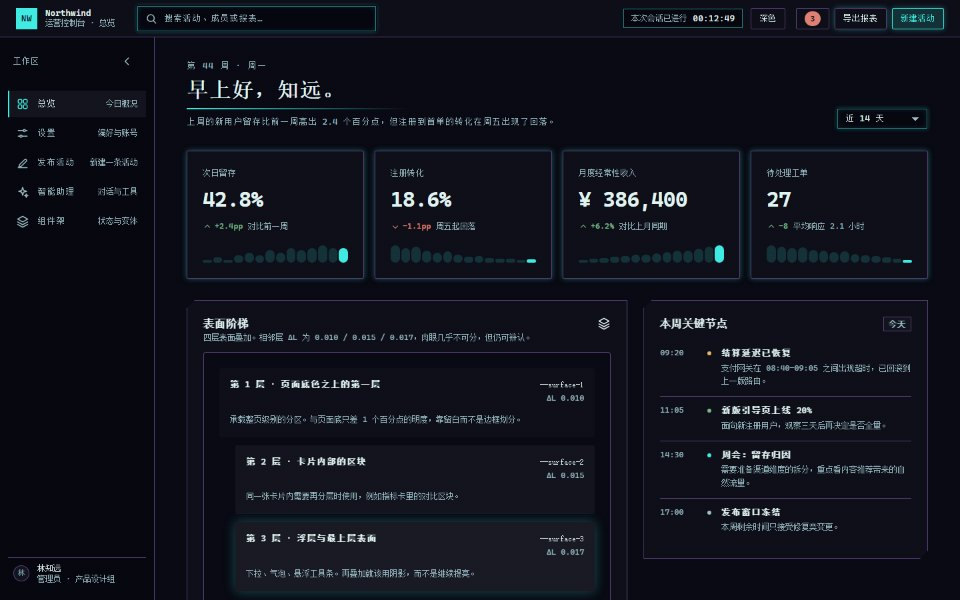
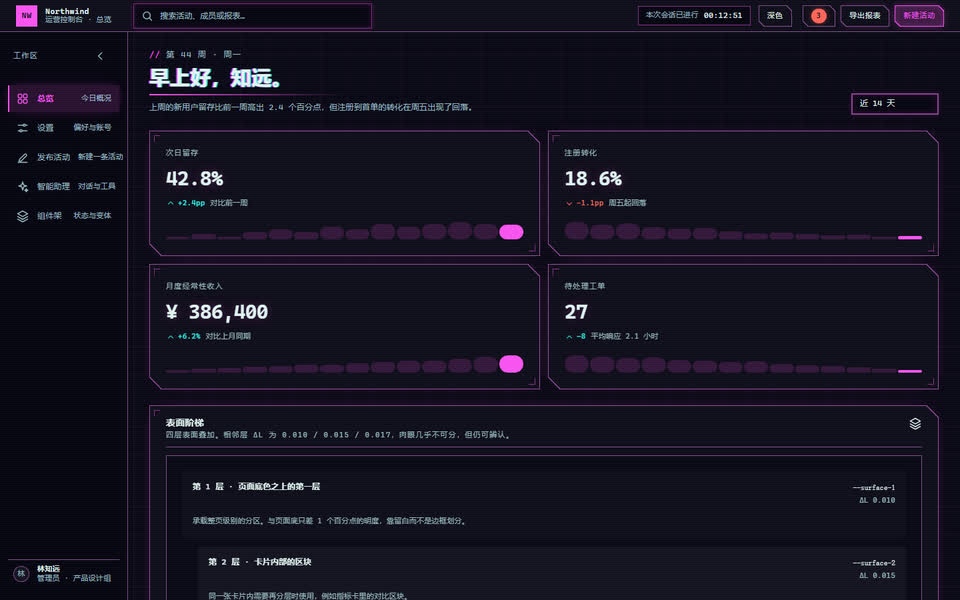
fix(cyberpunk): 主色换成霓虹品红，底子提浓度
预览图里的赛博朋克读起来像普通暗色主题，问题出在配色而不是纹理：
主荧光是青（H 190），品红只有 C 0.18、被降级成通道分离的配角，
所以整页没有霓虹。霓虹的视觉主体是品红，青色是陪衬。

- 暗色主荧光改品红 oklch(0.720 0.260 330)：L 0.72 的色域上限是
  C 0.286，压到 0.18 会在暗底上读成"紫灰"；青退到副光只做通道分离
- 底色浓度 0.020 → 0.028、色相 280 → 290：底色不带紫，品红就像贴在
  纯黑上的贴纸，而不是照着这个房间的光
- 描边跟着主色走（H 300→320、L 0.43→0.52）：暗紫线在品红旁边像没上色
- danger 从品红改为朱红 H 27：主色已是品红，状态色继续同色就分不出
  "主按钮"和"出错了"；success 浅色同步换青绿 H 155 避开同区
- 浅色态 accent 同步提到 C 0.23（5.6:1），accent-2 换成青墨
- 调色方案换成"荧光品红 / 显像管青 / 霓虹紫"，各带自己的中性色调
- 风格卡与 README 说明同步；预览图重拍

实测：暗色 fg 17.3:1 / muted 10.1:1 / accent 7.0:1；浅色 accent 5.6:1。
三套测试全绿（56 / 19 / 0 错误）。

diff --git a/assets/studio/styles/cyberpunk.css b/assets/studio/styles/cyberpunk.css
@@ -2,8 +2,9 @@
    cyberpunk.css —— 赛博朋克 · 变体 04/12
    --------------------------------------------------------------------------
    签名：同一个视觉语言的两种载体。
-     暗色 = 荧光显像管：蓝紫黑底 + 40px 青网格 + 3px 扫描线 + 下移扫描带，
-            切角、终端角标、标题/数值的 RGB 通道分离、只在活跃元素上发光。
+     暗色 = 荧光显像管：蓝紫黑底 + 40px 荧光网格 + 3px 扫描线 + 下移扫描带，
+            品红主荧光 + 青副荧光、切角、终端角标、标题/数值的 RGB 通道分离、
+            只在活跃元素上发光。
      浅色 = 印刷的终端：米青纸底 + 半调网点、深紫墨字、实心墨块按钮、
             套准角标、硬边套印偏移——纸不会发光，所以这里没有辉光。
 
@@ -30,18 +31,19 @@
   --surface-sunken: oklch(0.938 0.010 200);
   --fg: oklch(0.220 0.030 280);              /* #181928  15.5:1 */
   --fg-muted: oklch(0.435 0.050 280);        /* #4B4E6D  7.2:1 */
-  --accent: oklch(0.520 0.190 330);          /* #A1319B  品红墨，5.5:1 */
-  --accent-hover: oklch(0.470 0.195 330);
-  --accent-2: oklch(0.560 0.090 200);        /* #188489  青墨，只做装饰 */
+  --accent: oklch(0.520 0.230 330);          /* #AB0FA5  荧光品红墨，5.6:1 */
+  --accent-hover: oklch(0.470 0.210 330);    /* #950891 */
+  --accent-2: oklch(0.500 0.085 195);        /* #017272  青墨，只做套印副版 */
   --accent-soft: color-mix(in oklab, var(--accent) 12%, transparent);
   /* 实心墨块上的字用纸色；纸与墨是一对，白与墨不是 */
   --on-accent: oklch(0.960 0.010 200);
-  /* 状态色：danger 用品红墨，success 用主青墨，warning 用荧光黄墨 */
-  --danger: oklch(0.520 0.190 330);          /* #A1319B  5.5:1 vs bg */
-  --danger-hover: oklch(0.475 0.195 330);
+  /* 状态色：danger 换朱红，避免与品红主色混为一谈；
+     success 用青墨（副光），warning 用荧光黄墨 */
+  --danger: oklch(0.500 0.180 27);           /* #B32322  5.9:1 vs bg */
+  --danger-hover: oklch(0.450 0.180 27);     /* #A20711 */
   --danger-soft: color-mix(in oklab, var(--danger) 14%, transparent);
   --on-danger: oklch(0.960 0.010 200);       /* 5.9:1 vs danger */
-  --success: oklch(0.480 0.083 190);         /* #006C68  5.6:1 vs bg */
+  --success: oklch(0.480 0.090 155);         /* #2C6C47  5.6:1 vs bg */
   --warning: oklch(0.494 0.102 80);          /* #805A01  5.6:1 vs bg */
   --line-1: oklch(0.700 0.080 200);          /* #5CAEB2 */
   --line-2: oklch(0.560 0.060 280);
@@ -99,28 +101,36 @@
 :root[data-style="cyberpunk"][data-theme="dark"] {
   color-scheme: dark;
 
-  /* 屏幕态：H 280 / C 0.020 蓝紫黑；L 0.145，低于卡片声明的 0.18 上限 */
-  --bg: oklch(0.145 0.020 280);              /* #080912 */
-  --surface-1: oklch(0.168 0.020 280);       /* #0D0E18  ΔL 0.023 */
-  --surface-2: oklch(0.192 0.020 280);       /* #12131D  ΔL 0.024 */
-  --surface-3: oklch(0.217 0.020 280);       /* #181923  ΔL 0.025 */
-  --surface-sunken: oklch(0.128 0.020 280);
+  /* 屏幕态：H 290 / C 0.028 蓝紫黑；L 0.145，低于卡片声明的 0.18 上限。
+     浓度从 0.020 提到 0.028：底色必须带一点紫，品红荧光才像"照着这个
+     房间"，否则霓虹是浮在纯黑上的一层贴纸。 */
+  --bg: oklch(0.145 0.028 290);              /* #0A0815 */
+  --surface-1: oklch(0.168 0.028 290);       /* #0F0D1A  ΔL 0.023 */
+  --surface-2: oklch(0.192 0.028 290);       /* #141220  ΔL 0.024 */
+  --surface-3: oklch(0.217 0.028 290);       /* #1A1826  ΔL 0.025 */
+  --surface-sunken: oklch(0.128 0.028 290);  /* #070511 */
   --fg: oklch(0.950 0.020 190);              /* #E0F3F1  17.3:1 */
-  --fg-muted: oklch(0.780 0.040 210);        /* #9BBFC6  10.0:1 */
-  --accent: oklch(0.855 0.135 190);          /* #40EBE3  主荧光青，13.4:1 */
-  --accent-hover: oklch(0.900 0.125 190);
-  --accent-2: oklch(0.720 0.180 330);        /* #E364DB  次荧光品红，只做通道分离 */
+  --fg-muted: oklch(0.780 0.040 210);        /* #9BBFC6  10.1:1 */
+  /* 主荧光是品红，不是青：霓虹招牌里最先被看见的是它。
+     彩度必须顶到 C 0.26（L 0.72 的色域上限是 0.286，留一点余量给
+     Gamut 舍入）——低于 0.20 的品红在暗底上会读成"紫灰"，这正是它
+     不像霓虹的原因；青色反而要退到副光，只在通道分离与套印里出现。 */
+  --accent: oklch(0.720 0.260 330);          /* #F852F0  主荧光品红，7.0:1 */
+  --accent-hover: oklch(0.790 0.180 330);    /* #F98CF1 */
+  --accent-2: oklch(0.870 0.145 195);        /* #20F1F2  副荧光青，只做通道分离 */
   --accent-soft: color-mix(in oklab, var(--accent) 16%, transparent);
-  --on-accent: oklch(0.145 0.020 280);       /* 亮青底上压深色字 */
-  /* 暗色状态色：danger 落在品红荧光上，三者 L 都在 0.85 附近 */
-  --danger: oklch(0.854 0.129 330);          /* #FFB0F7  12.1:1 vs bg */
-  --danger-hover: oklch(0.900 0.119 330);
+  --on-accent: oklch(0.145 0.028 290);       /* 亮品红底上压深色字 */
+  /* 状态色：danger 必须离开品红——主色现在是品红，两者同色就分不出
+     "这是一个按钮"还是"这里出错了"。改用朱红，H 27 与品红 330 相距足够远 */
+  --danger: oklch(0.700 0.190 27);           /* #FF655A  6.9:1 vs bg */
+  --danger-hover: oklch(0.760 0.140 27);     /* #FE8C80 */
   --danger-soft: color-mix(in oklab, var(--danger) 16%, transparent);
-  --on-danger: oklch(0.145 0.020 280);
-  --success: oklch(0.854 0.147 190);         /* #06EDE4  13.4:1 vs bg */
-  --warning: oklch(0.854 0.141 80);          /* #FFC458  12.5:1 vs bg */
-  --line-1: oklch(0.430 0.100 300);          /* #59417E */
-  --line-2: oklch(0.520 0.110 300);
+  --on-danger: oklch(0.145 0.028 290);
+  --success: oklch(0.854 0.140 190);         /* #06EDE4  13.4:1 vs bg */
+  --warning: oklch(0.854 0.130 80);          /* #FCC564  12.6:1 vs bg */
+  /* 描边跟着主荧光走：原来的暗紫线在品红旁边会读成"没上色" */
+  --line-1: oklch(0.520 0.120 320);          /* #875093  3.4:1 vs bg */
+  --line-2: oklch(0.600 0.120 320);          /* #A067AC  4.8:1 vs bg */
   --line-inset: color-mix(in oklab, var(--accent) 55%, transparent);
 
   /* 辉光取代实心阴影：只在描边与活跃元素上出现 */
@@ -557,7 +567,7 @@
   box-shadow: 3px 3px 0 var(--accent);
 }
 
-/* 选中：屏幕态是荧光青底深字；印刷态是品红墨块 */
+/* 选中：屏幕态是荧光品红底深字；印刷态是品红墨块 */
 :root[data-style="cyberpunk"]::selection,
 :root[data-style="cyberpunk"] ::selection {
   background: var(--accent);
@@ -628,7 +638,8 @@
   border-color: var(--danger-hover);
   box-shadow: 0 0 18px -2px color-mix(in oklab, var(--danger) 55%, transparent);
 }
-/* 印刷态：危险是实心品红块，和主按钮一样是墨 */
+/* 印刷态：危险是实心朱红块，和主按钮一样是墨。
+   朱红与品红主色是两个色相，一眼能分开——同色的话危险色就等于主色。 */
 :root[data-style="cyberpunk"]:not([data-theme="dark"]) .btn[data-variant="danger"] {
   background: var(--danger);
   border-color: var(--danger);

diff --git a/references/styles/cyberpunk.md b/references/styles/cyberpunk.md
@@ -15,8 +15,8 @@
 
 ## 签名特征（3–5 条，缺一不可）
 
-1. **两种载体，一套语言**。屏幕态（暗色）是主形态，`--bg` L ≤ 0.18、中性色带蓝紫（H 275–290）；印刷态（浅色）是同一套语言的纸上版本——半调网点、实心墨块、套准角标。两者共用同一组荧光色相与同一套等宽排版，不是"深色主题的反色"。
-2. **两个荧光色**：主青（H 185–195）与次品红（H 320–335），只用于描边、高亮、细线与辉光，不做大面积填充；暗色下青做主、品红做通道分离，浅色下品红做墨、青做辅助。
+1. **两种载体，一套语言**。屏幕态（暗色）是主形态，`--bg` L ≤ 0.18、中性色带蓝紫（H 285–295，C 0.028）；印刷态（浅色）是同一套语言的纸上版本——半调网点、实心墨块、套准角标。两者共用同一组荧光色相与同一套等宽排版，不是"深色主题的反色"。
+2. **两个荧光色，品红做主**：主荧光品红（H 320–335，暗底上 C ≥ 0.23）与副荧光青（H 190–200），只用于描边、高亮、细线与辉光，不做大面积填充。暗色下品红做主、青做通道分离；浅色下品红做墨、青做套印副版。**品红的彩度不能省**：L 0.72 时色域上限是 C 0.286，低于 0.20 就会在暗底上读成"紫灰"——那是紫色主题，不是霓虹。
 3. **等宽字是正文，不是代码块的例外**。数字、标签、导航一律等宽；`font-variant-numeric: tabular-nums slashed-zero` 必须生效。
 4. **辉光是 `text-shadow` / `box-shadow` 的彩色扩散**，不是渐变。每个元素最多两层；屏幕态只给"活跃"元素（悬停、焦点、当前项）发光，其余一律描边。
 5. **结构性装饰按载体分工**：屏幕态是 3px 扫描线 + 40px 网格 + 切角 + 终端角标；印刷态是 5px 半调网点 + 实心墨条 + 套准十字。各自只有四样，不混用。
@@ -25,8 +25,8 @@
 
 | 维度 | 取值 |
 |---|---|
-| 中性色温度 | 屏幕 H 280 / C 0.020（蓝紫黑；纯中性黑会让荧光显得脏）；印刷 H 200 / C 0.010（米青纸） |
-| 彩度上限 | C ≤ 0.190；荧光色 2 个（青 + 品红），其余全部低彩 |
+| 中性色温度 | 屏幕 H 290 / C 0.028（蓝紫黑；浓度低了品红像贴在纯黑上的贴纸）；印刷 H 200 / C 0.010（米青纸） |
+| 彩度上限 | 荧光色 2 个（品红 C ≤ 0.26 + 青 C ≤ 0.15），其余全部低彩；品红必须接近色域上限 |
 | 圆角 | `--r-sm` 0 · `--r-md` 2 · `--r-lg` 4 · `--r-full` 999；屏幕态切角用 `clip-path` / `corner-shape: bevel`，印刷态一律直角 |
 | 边框 | 屏幕 1px `--line-1`，悬停换荧光；印刷 1px `--fg` 墨线 + 3px 套印偏移；输入框印刷态是 2px 实心墨框（R4 B 类） |
 | 阴影 | 屏幕 8/18px 荧光扩散 + `--shadow-3` 黑投影；印刷 `--shadow-1` 0 1px 0 墨/.32 · `--shadow-2` 0 2px 0 墨/.40 · `--shadow-3` 同上浮层 |
@@ -40,32 +40,33 @@
 
 | 角色 | 浅色（印刷态） | 暗色（屏幕态） |
 |---|---|---|
-| bg | `#EBF4F4` · `oklch(0.960 0.010 200)` | `#080912` · `oklch(0.145 0.020 280)` |
-| surface-1 | `#E6EFEF` · `oklch(0.945 0.010 200)` | `#0D0E18` · `oklch(0.168 0.020 280)` |
-| surface-2 | `#E0E9EA` · `oklch(0.928 0.010 200)` | `#12131D` · `oklch(0.192 0.020 280)` |
-| surface-3 | `#D9E3E3` · `oklch(0.908 0.010 200)` | `#181923` · `oklch(0.217 0.020 280)` |
+| bg | `#EBF4F4` · `oklch(0.960 0.010 200)` | `#0A0815` · `oklch(0.145 0.028 290)` |
+| surface-1 | `#E6EFEF` · `oklch(0.945 0.010 200)` | `#0F0D1A` · `oklch(0.168 0.028 290)` |
+| surface-2 | `#E0E9EA` · `oklch(0.928 0.010 200)` | `#141220` · `oklch(0.192 0.028 290)` |
+| surface-3 | `#D9E3E3` · `oklch(0.908 0.010 200)` | `#1A1826` · `oklch(0.217 0.028 290)` |
 | fg | `#181928` · `oklch(0.220 0.030 280)` | `#E0F3F1` · `oklch(0.950 0.020 190)` |
 | fg-muted | `#4B4E6D` · `oklch(0.435 0.050 280)` | `#9BBFC6` · `oklch(0.780 0.040 210)` |
-| accent | `#A1319B` · `oklch(0.520 0.190 330)` | `#40EBE3` · `oklch(0.855 0.135 190)` |
-| line-1 | `#5CAEB2` · `oklch(0.700 0.080 200)` | `#59417E` · `oklch(0.430 0.100 300)` |
+| accent | `#AB0FA5` · `oklch(0.520 0.230 330)` | `#F852F0` · `oklch(0.720 0.260 330)` |
+| accent-2 | `#017272` · `oklch(0.500 0.085 195)` | `#20F1F2` · `oklch(0.870 0.145 195)` |
+| line-1 | `#5CAEB2` · `oklch(0.700 0.080 200)` | `#7E4D8A` · `oklch(0.500 0.110 320)` |
 
 - 表面 ΔL（浅）：bg→s1 **0.015** · s1→s2 **0.017** · s2→s3 **0.020**；（暗）0.023 / 0.024 / 0.025
-- 对比度（浅）：`fg/bg` 15.5:1 · `fg-muted/bg` 7.2:1 · `accent/bg` 5.5:1；（暗）17.3 / 10.0 / 13.4
+- 对比度（浅）：`fg/bg` 15.5:1 · `fg-muted/bg` 7.2:1 · `accent/bg` 5.6:1；（暗）17.3 / 10.1 / 7.0
 - 叠加纹理后的有效对比度：暗色扫描线下 `fg-muted/bg` **9.1:1**；浅色网点下 `fg-muted/bg` **5.2:1**（正文更低，均 ≥ 4.5）
 
-**浅色是"印刷的终端"而不是纯白后台**：米青纸底、深紫墨字、半调网点、实心墨块、四角套准标。不要做成白色 + 荧光——荧光在亮底上掉到 2:1 以下，纸也不会发光。**强调色按模式互换角色**：暗色青做主荧光（13.4:1），浅色品红（5.5:1）——浅底上青会发灰，暗底上品红会发闷。
+**浅色是"印刷的终端"而不是纯白后台**：米青纸底、深紫墨字、半调网点、实心墨块、四角套准标。不要做成白色 + 荧光——荧光在亮底上掉到 2:1 以下，纸也不会发光。**两个荧光色在两种载体里角色不变**：品红始终是主色（暗 7.0:1 / 浅 5.6:1），青始终是副光——浅底上青做不了主（相对亮度接近纸，掉到 2:1），暗底上青做主又会把品红挤成装饰。
 
 ### 状态色
 
 | 角色 | 浅色（印刷） | 暗色（屏幕） | 说明 |
 |---|---|---|---|
-| danger | `#A1319B` · `oklch(0.520 0.190 330)` | `#FFB0F7` · `oklch(0.854 0.129 330)` | 品红，H 330 在允许的 320–335 内 |
-| danger-hover | `oklch(0.475 0.195 330)` | `oklch(0.900 0.119 330)` | |
-| on-danger | `#EBF4F4` · `oklch(0.960 0.010 200)` | `oklch(0.145 0.020 280)` | 印刷态用纸色，不用纯白 |
-| success | `#006C68` · `oklch(0.480 0.083 190)` | `#06EDE4` · `oklch(0.854 0.147 190)` | 主青，H 190 |
-| warning | `#805A01` · `oklch(0.494 0.102 80)` | `#FFC458` · `oklch(0.854 0.141 80)` | 荧光黄 |
+| danger | `#B32322` · `oklch(0.500 0.180 27)` | `#FF655A` · `oklch(0.700 0.190 27)` | 朱红，H 27；不能用品红——主色现在就是品红 |
+| danger-hover | `#A20711` · `oklch(0.450 0.180 27)` | `#FE8C80` · `oklch(0.760 0.140 27)` | |
+| on-danger | `#EBF4F4` · `oklch(0.960 0.010 200)` | `#0A0815` · `oklch(0.145 0.028 290)` | 印刷态用纸色，不用纯白 |
+| success | `#2C6C47` · `oklch(0.480 0.090 155)` | `#06EDE4` · `oklch(0.854 0.140 190)` | 暗色回落主青（副光），浅色换青绿避开与主色同区 |
+| warning | `#805A01` · `oklch(0.494 0.102 80)` | `#FCC564` · `oklch(0.854 0.130 80)` | 荧光黄，第三档 |
 
-状态色不新增色相：danger 用品红（次荧光），success 用青（主荧光），warning 用荧光黄作为第三档（只用于状态，不做装饰）。暗色下三者 L 都在 0.85，配合彩色扩散产生辉光；浅色下辉光关掉，危险态改为实心墨块。
+**danger 必须与主色不同色相。** 早先 danger 直接复用主色（品红），当时主色是青，所以分得开；现在主色是品红，继续复用的话"这是主按钮"和"这里出错了"就成了同一个颜色。状态色不新增装饰色相：danger 用朱红、success 用青绿/青、warning 用荧光黄，只在状态上出现。
 
 ## 标志性 CSS
 
@@ -76,7 +77,7 @@
 :root[data-style="cyberpunk"] {
   color-scheme: light;
   --bg: oklch(0.960 0.010 200);          /* 米青纸 */ --fg: oklch(0.220 0.030 280);  /* 深紫墨 */
-  --accent: oklch(0.520 0.190 330);      /* 品红墨 */   --accent-2: oklch(0.560 0.090 200); /* 青墨 */
+  --accent: oklch(0.520 0.230 330);      /* 品红墨 */   --accent-2: oklch(0.500 0.085 195); /* 青墨 */
   --on-accent: oklch(0.960 0.010 200);   /* 实心墨块上的字用纸色 */
   --surface-1: oklch(0.945 0.010 200); --surface-2: oklch(0.928 0.010 200);
   --surface-3: oklch(0.908 0.010 200); --fg-muted: oklch(0.435 0.050 280);
@@ -89,15 +90,16 @@
 }
 :root[data-style="cyberpunk"][data-theme="dark"] {
   color-scheme: dark;
-  --bg: oklch(0.145 0.020 280);          /* L 0.145 ≤ 0.18，H 280 蓝紫黑 */
-  --surface-1: oklch(0.168 0.020 280); --surface-2: oklch(0.192 0.020 280);
-  --surface-3: oklch(0.217 0.020 280); --fg: oklch(0.950 0.020 190);
-  --fg-muted: oklch(0.780 0.040 210); --line-1: oklch(0.430 0.100 300);
-  --accent: oklch(0.855 0.135 190);      /* 主荧光青 */
-  --accent-2: oklch(0.720 0.180 330);    /* 次荧光品红，只做通道分离 */
+  --bg: oklch(0.145 0.028 290);          /* L 0.145 ≤ 0.18，H 290 蓝紫黑 */
+  --surface-1: oklch(0.168 0.028 290); --surface-2: oklch(0.192 0.028 290);
+  --surface-3: oklch(0.217 0.028 290); --fg: oklch(0.950 0.020 190);
+  --fg-muted: oklch(0.780 0.040 210); --line-1: oklch(0.520 0.120 320);
+  --accent: oklch(0.720 0.260 330);      /* 主荧光品红，C 顶到色域上限附近 */
+  --accent-2: oklch(0.870 0.145 195);    /* 副荧光青，只做通道分离 */
   --fw-body: 350; --fw-strong: 550; --fw-display: 650;
 }
-/* 验收：暗色 bg 的 L ≤ 0.18 且 H ∈ 275–290；浅色 accent/bg ≥ 4.5:1 且无辉光 */
+/* 验收：暗色 bg 的 L ≤ 0.18 且 H ∈ 285–295；accent 的 C ≥ 0.23；
+   浅色 accent/bg ≥ 4.5:1 且无辉光 */
 ```
 
 **2 · 扫描线、扫描带与网格：屏幕态的三层纹理**
@@ -241,7 +243,7 @@ body {
 
 ## 验收：怎么判断这个风格做对了
 
-- [ ] 暗色 `bg` 的 OKLCH L ≤ 0.18，且 H 落在 275–290
+- [ ] 暗色 `bg` 的 OKLCH L ≤ 0.18，且 H 落在 285–295；主色 `accent` 的 C ≥ 0.23（品红必须够艳，否则读成紫灰）
 - [ ] 暗色 `body::before` 的 computed `background-image` 含 `repeating-linear-gradient`，透明层 alpha ≥ 0.025
 - [ ] 暗色至少一个元素（`h1`）的 `text-shadow` 有两层、X 偏移异号、颜色不同；正文 `text-shadow` 为 `none`
 - [ ] 暗色 `body::after` 的 `animation-name` 为 `cyber-scan`，`prefers-reduced-motion` 下变为 `none`
@@ -258,8 +260,9 @@ body {
 
 | 常见做错 | 为什么错 |
 |---|---|
-| 把它当"暗色模式"用 | 赛博朋克是有主张的暗色，不是主题开关；把普通后台切到暗色再调成青色不构成这个风格 |
+| 把它当"暗色模式"用 | 赛博朋克是有主张的暗色，不是主题开关；把普通后台切到暗色再调出一支青色不构成这个风格 |
 | 浅色做成"白色 + 荧光" | 荧光在亮底上掉到 2:1，且丢失"纸"这个载体；浅色必须是米青纸 + 深紫墨 + 半调网点 + 实心墨块 |
+| 品红只给描边、主色留给青 | 霓虹的主体是品红。把品红降成 C 0.18 的"紫灰"只做通道分离，页面就退回普通暗色主题——彩度是这支风格的载体，不是可选项 |
 | 浅色直接复用暗色的结构装饰 | 切角、扫描线、外发光都是屏幕的物理属性；纸上要换成套准标、网点、硬边套印偏移，否则是"深色主题换了底色" |
 | 页面塞满"glitch""404""ACCESS DENIED"装饰 | 这些是叙事层内容，不是视觉系统；内容一多就从"氛围"变成"素材堆" |
 | 用赛博朋克承载数据报表 | **明确不适合**：荧光 + 扫描线 + 等宽字三重干扰下，数值比较与列对齐的认知成本翻倍 |

diff --git a/README.md b/README.md
@@ -21,7 +21,7 @@
 | ![渐变·弥散光](assets/readme/styles/gradient-aurora.jpg) | ![黑色科技极简](assets/readme/styles/dark-tech-dark.jpg) |
 | **渐变 · 弥散光**<br>大色斑做氛围底，表面半透 | **黑色科技极简**<br>近黑底、极细同宽线、单点高光 |
 | ![赛博朋克](assets/readme/styles/cyberpunk-dark.jpg) | ![透明玻璃](assets/readme/styles/glass-transparent.jpg) |
-| **赛博朋克**<br>暗底荧光、切角、等宽字、扫描线 | **透明玻璃**<br>不模糊，只染色，靠亮边立形 |
+| **赛博朋克**<br>品红霓虹、扫描线、切角、等宽字 | **透明玻璃**<br>不模糊，只染色，靠亮边立形 |
 | ![毛玻璃](assets/readme/styles/glass-frosted.jpg) | ![液态玻璃](assets/readme/styles/glass-liquid.jpg) |
 | **毛玻璃**<br>背景被糊掉，边缘靠双 inset 伪造厚度 | **液态玻璃**<br>边缘折射并弯曲背后的内容（仅 Chromium 真渲染） |
 
